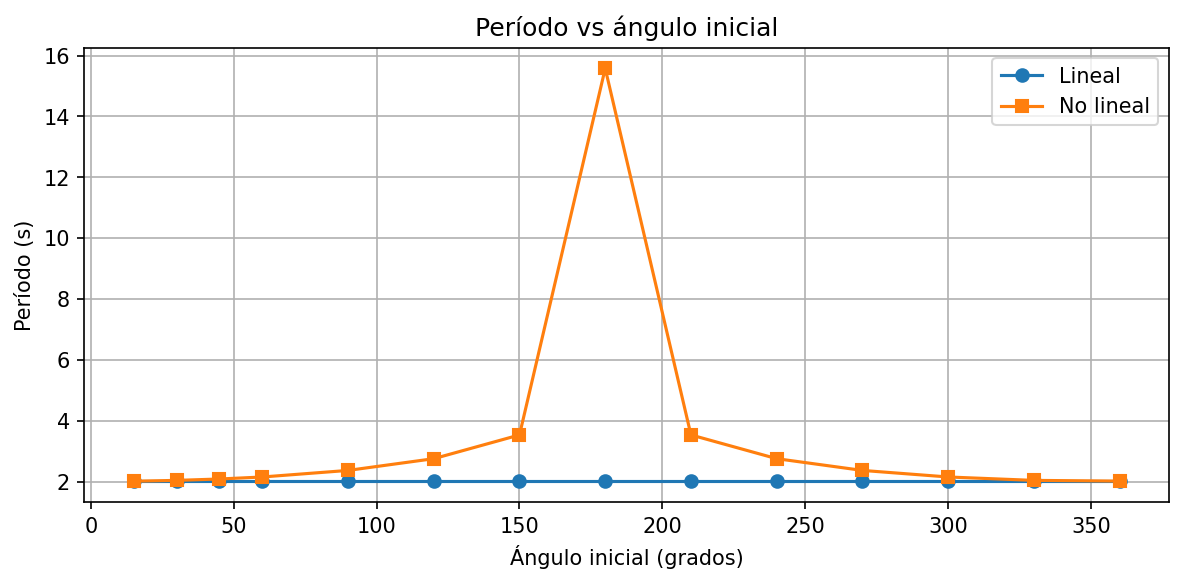
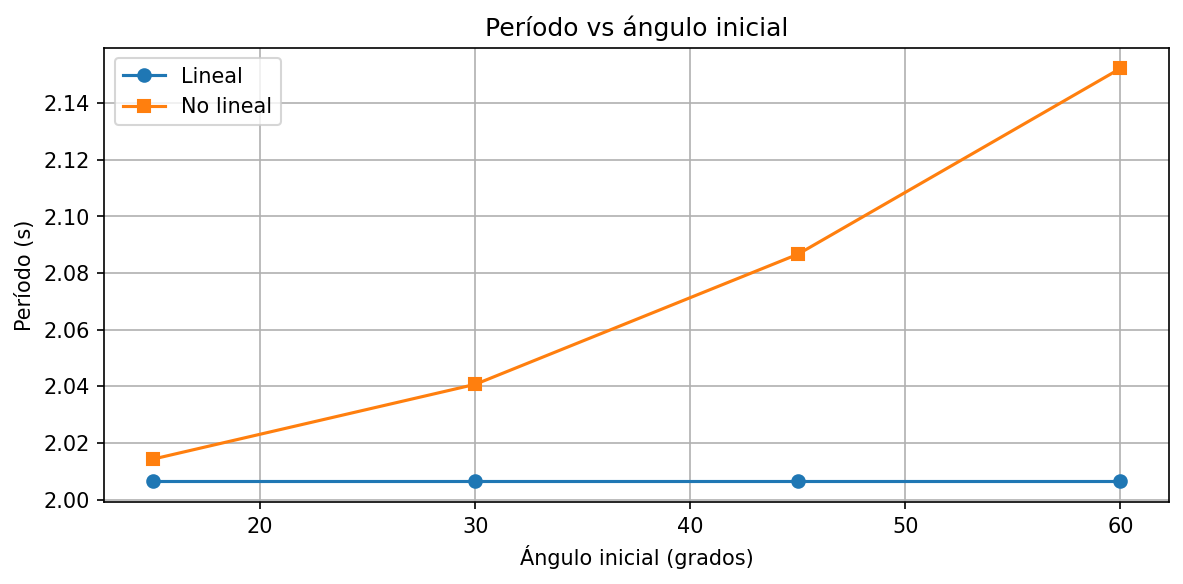
cambio final

Changed region(s): [[0.0304, 0.0308, 1.0, 0.9863]]

diff --git a/scripts/02_explore_pendulum_models.py b/scripts/02_explore_pendulum_models.py
@@ -23,7 +23,7 @@ g = 9.81
 L = 1.0
 omega0 = 0.0
 
-theta0_deg_list = [15, 30, 45, 60, 90, 120, 150, 180, 210, 240, 270, 300, 330, 360]
+theta0_deg_list = [15, 30, 45, 60]
 
 t_span = (0, 60)
 t_eval = np.linspace(*t_span, 3000)
